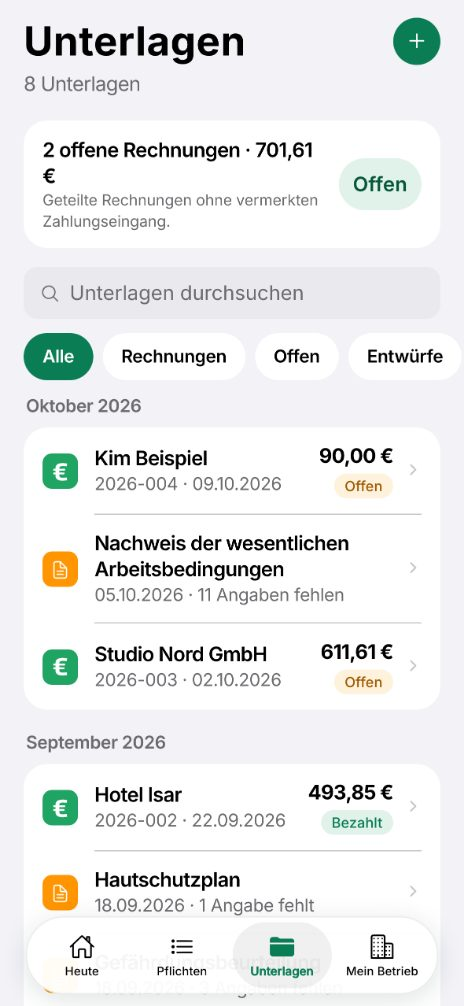
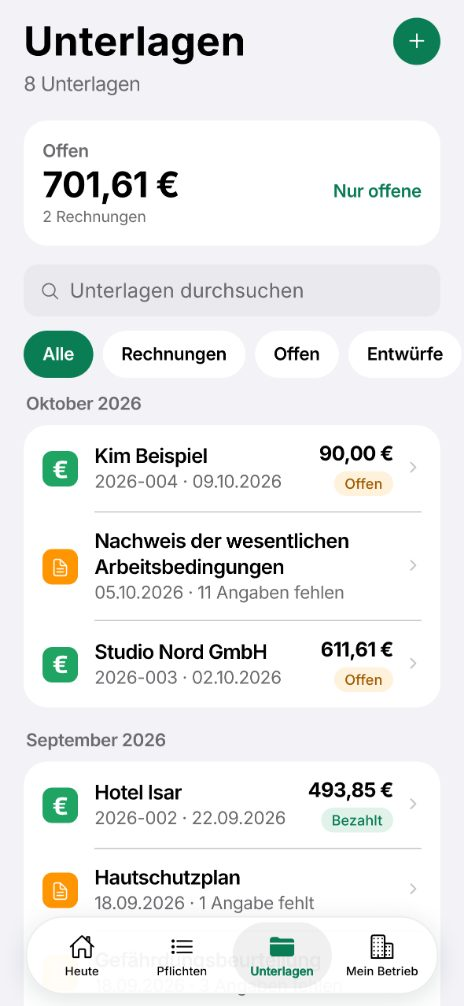
E-141: Mein Betrieb mit Listenzeilen für Sichern, Wiederherstellen und Löschen; Offen-Karte wie in Finanz-Apps
Claude-Session: https://claude.ai/code/session_01WbXnSzce2P68GngQY2h6hr

diff --git a/apps/mobile/src/seiten/Meine.tsx b/apps/mobile/src/seiten/Meine.tsx
@@ -1,7 +1,7 @@
 import { useState, useMemo } from "react";
-import { ScrollView, View } from "react-native";
+import { Pressable, ScrollView, View } from "react-native";
 import { T as TEXT } from "../texte";
-import { RAND } from "../ui/thema";
+import { RAND, SCHRIFT } from "../ui/thema";
 import { Betrag, Karte, Knopf, T, TextKnopf, Wahl } from "../ui/bausteine";
 import { useNav } from "../ui/navigation";
 import { useFarben } from "../ui/thema";
@@ -18,17 +18,23 @@ import { BelegErfassenSeite } from "./Belege";
 /** Ab so vielen Unterlagen lohnt sich die Suche. */
 const SUCHE_AB = 6;
 
-/** Offene Rechnungen auf einen Blick – antippen filtert die Liste. */
+/**
+ * Offene Rechnungen auf einen Blick – der Betrag groß wie in Finanz-Apps, darunter Anzahl bzw. „davon überfällig“.
+ * Antippen filtert die Liste auf offene Rechnungen (noch einmal: alle).
+ */
 function OffeneKarte({ anzahl, ueberfaellig, cent, aktiv, onPress }: { anzahl: number; ueberfaellig: number; cent: number; aktiv: boolean; onPress: () => void }) {
   const f = useFarben();
   return (
-    <Karte stil={{ marginBottom: 16, paddingVertical: 14, flexDirection: "row", alignItems: "center", gap: 14, backgroundColor: aktiv ? f.baldHauch : f.blatt }}>
-      <View style={{ flex: 1 }}>
-        <T fett>{anzahl ? TEXT.offene_summe(anzahl, euroText(cent)) : TEXT.alles_bezahlt}</T>
-        {anzahl ? <T v="caption" leise farbe={ueberfaellig ? f.frist : undefined}>{ueberfaellig ? TEXT.davon_ueberfaellig(ueberfaellig) : TEXT.offene_hilfe}</T> : null}
-      </View>
-      {anzahl ? <Knopf ton text={aktiv ? TEXT.filter.alle : TEXT.filter.offen} onPress={onPress} stil={{ minHeight: 44, paddingHorizontal: 12 }} /> : null}
-    </Karte>
+    <Pressable accessibilityRole="button" accessibilityState={{ selected: aktiv }} accessibilityLabel={anzahl ? TEXT.offene_summe(anzahl, euroText(cent)) : TEXT.alles_bezahlt} onPress={anzahl ? onPress : undefined} style={({ pressed }) => ({ marginBottom: 16, opacity: pressed ? 0.7 : 1 })}>
+      <Karte stil={{ paddingVertical: 16, borderWidth: aktiv ? 2 : 0, borderColor: f.amt }}>
+        <T v="klein" fett leise>{TEXT.kachel_offen}</T>
+        <View style={{ flexDirection: "row", alignItems: "baseline", justifyContent: "space-between", gap: 12 }}>
+          <Betrag stil={{ ...SCHRIFT.bold, fontSize: 30, lineHeight: 36 }}>{euroText(cent)}</Betrag>
+          {anzahl ? <T v="klein" fett farbe={f.amt}>{aktiv ? TEXT.filter.alle : TEXT.nur_offene}</T> : null}
+        </View>
+        <T v="caption" farbe={ueberfaellig ? f.frist : undefined} leise={!ueberfaellig}>{anzahl ? (ueberfaellig ? TEXT.davon_ueberfaellig(ueberfaellig) : TEXT.kachel_offen_text(anzahl)) : TEXT.alles_bezahlt}</T>
+      </Karte>
+    </Pressable>
   );
 }
 

diff --git a/apps/mobile/src/ui/bausteine.tsx b/apps/mobile/src/ui/bausteine.tsx
@@ -347,7 +347,7 @@ export function Abschnitt({ titel, rechts, children }: { titel?: string; rechts?
  * Zeile in einer Liste: tippbar, Haarlinie unten (eingerückt ab dem Text, wie in iOS). `symbol` setzt eine getönte
  * Kachel davor, `links` ein eigenes Element (z. B. Status-Kreis).
  */
-export function Zeile({ links, symbol, ton, titel, text, wert, marke, rechts, onPress, letzte }: { links?: ReactNode; symbol?: string; ton?: Ton; titel: string; text?: string; wert?: string; marke?: { text: string; ton: Ton }; rechts?: ReactNode; onPress?: () => void; letzte?: boolean }) {
+export function Zeile({ links, symbol, ton, titel, text, wert, marke, rechts, onPress, letzte, gefahr, label }: { links?: ReactNode; symbol?: string; ton?: Ton; titel: string; text?: string; wert?: string; marke?: { text: string; ton: Ton }; rechts?: ReactNode; onPress?: () => void; letzte?: boolean; gefahr?: boolean; label?: string }) {
   const f = useFarben();
   const vorn = symbol ? <Kachel symbol={symbol} ton={ton} /> : links;
   const inhalt = (pressed: boolean) => (
@@ -355,7 +355,7 @@ export function Zeile({ links, symbol, ton, titel, text, wert, marke, rechts, on
       {vorn ? <View style={{ marginRight: 14, minWidth: 24, alignItems: "center" }}>{vorn}</View> : null}
       <View style={{ flex: 1, minWidth: 0, flexDirection: "row", alignItems: "center", gap: 10, paddingVertical: 13, minHeight: 58, borderBottomWidth: letzte ? 0 : HAARLINIE, borderColor: f.linie }}>
         <View style={{ flex: 1, minWidth: 0 }}>
-          <T fett numberOfLines={2}>{titel}</T>
+          <T fett={!gefahr} farbe={gefahr ? f.frist : undefined} numberOfLines={2}>{titel}</T>
           {text ? <T v="klein" leise numberOfLines={2} stil={{ marginTop: 1 }}>{text}</T> : null}
         </View>
         {/* Betrag rechts (Rechnungen, Belege) – das, wonach man in Listen sucht */}
@@ -365,13 +365,13 @@ export function Zeile({ links, symbol, ton, titel, text, wert, marke, rechts, on
             {marke ? <Marke text={marke.text} ton={marke.ton} /> : null}
           </View>
         ) : null}
-        {rechts ?? (onPress ? <Symbol name="chevron.right" groesse={14} farbe={f.zeiger} gewicht="semibold" /> : null)}
+        {rechts ?? (onPress && !gefahr ? <Symbol name="chevron.right" groesse={14} farbe={f.zeiger} gewicht="semibold" /> : null)}
       </View>
     </View>
   );
   if (!onPress) return inhalt(false);
   return (
-    <Pressable accessibilityRole="button" onPress={onPress}>
+    <Pressable accessibilityRole="button" accessibilityLabel={label} onPress={onPress}>
       {({ pressed }) => inhalt(pressed)}
     </Pressable>
   );

diff --git a/apps/mobile/src/seiten/Betrieb.tsx b/apps/mobile/src/seiten/Betrieb.tsx
@@ -345,9 +345,11 @@ export function Betrieb() {
         <Datenschutz />
         <KontoZeile />
         <CloudZeile />
-        <T v="klein" leise stil={{ marginLeft: 4, marginBottom: 8 }}>{TEXT.letzte_sicherung(z.stand.letzteSicherung ? datumKurz(z.stand.letzteSicherung) : null)}</T>
-        <Knopf ton symbol="lock" text={TEXT.sichern} onPress={() => nav.oeffnen("sicherung", () => <SicherungSeite />, true)} />
-        <TextKnopf symbol="arrow.clockwise" text={TEXT.wiederherstellen} onPress={() => nav.oeffnen("wiederherstellen", () => <WiederherstellenSeite fertig={() => setZaehler((x) => x + 1)} />, true)} stil={{ marginLeft: 4, marginTop: 4 }} />
+        {/* Sichern und Wiederherstellen als Listenzeilen – wie in den iPhone-Einstellungen */}
+        <Karte>
+          <Zeile symbol="lock.fill" titel={TEXT.sichern} label={TEXT.sichern} text={TEXT.letzte_sicherung(z.stand.letzteSicherung ? datumKurz(z.stand.letzteSicherung) : null)} onPress={() => nav.oeffnen("sicherung", () => <SicherungSeite />, true)} />
+          <Zeile symbol="arrow.clockwise" ton="blau" titel={TEXT.wiederherstellen} label={TEXT.wiederherstellen} onPress={() => nav.oeffnen("wiederherstellen", () => <WiederherstellenSeite fertig={() => setZaehler((x) => x + 1)} />, true)} letzte />
+        </Karte>
       </Gruppe>
       <Gruppe fuss={TEXT.alles_loeschen_text}>
         {frage && !darfLoeschen ? (
@@ -377,7 +379,9 @@ export function Betrieb() {
             </View>
           </Karte>
         ) : (
-          <TextKnopf gefahr symbol="trash" text={TEXT.alles_loeschen} onPress={() => { weich(); setFrage(true); }} />
+          <Karte>
+            <Zeile gefahr titel={TEXT.alles_loeschen} label={TEXT.alles_loeschen} onPress={() => { weich(); setFrage(true); }} letzte />
+          </Karte>
         )}
       </Gruppe>
       <Gruppe titel={TEXT.ueber_titel}>

diff --git a/apps/mobile/src/texte.ts b/apps/mobile/src/texte.ts
@@ -21,6 +21,7 @@ export const T = {
   alle_pflichten: "Alle Pflichten",
   nichts_dran_kurz: "Nichts ist dringend. Amtlos sagt Bescheid, wenn ein Termin näher rückt.",
   kachel_offen: "Offen",
+  nur_offene: "Nur offene",
   kachel_offen_text: (n: number) => (n === 0 ? "alles bezahlt" : n === 1 ? "1 Rechnung" : `${n} Rechnungen`),
   kachel_monat_text: (n: number) => (n === 1 ? "berechnet · 1 Rechnung" : `berechnet · ${n} Rechnungen`),
   schnell_titel: "Schnell erledigt",

diff --git a/apps/mobile/src/seiten/Sicherung.tsx b/apps/mobile/src/seiten/Sicherung.tsx
@@ -236,6 +236,7 @@ export function CloudZeile() {
   const sperre = useProSperre();
   if (!cloud) return null;
   return (
+    <Karte stil={{ marginBottom: 10, paddingBottom: 12 }}>
     <Schalter
       label={TEXT.mitPro(TEXT.icloud_auto, z.pro)}
       hilfe={TEXT.icloud_auto_hilfe}
@@ -251,6 +252,7 @@ export function CloudZeile() {
         }
       }}
     />
+    </Karte>
   );
 }
 
